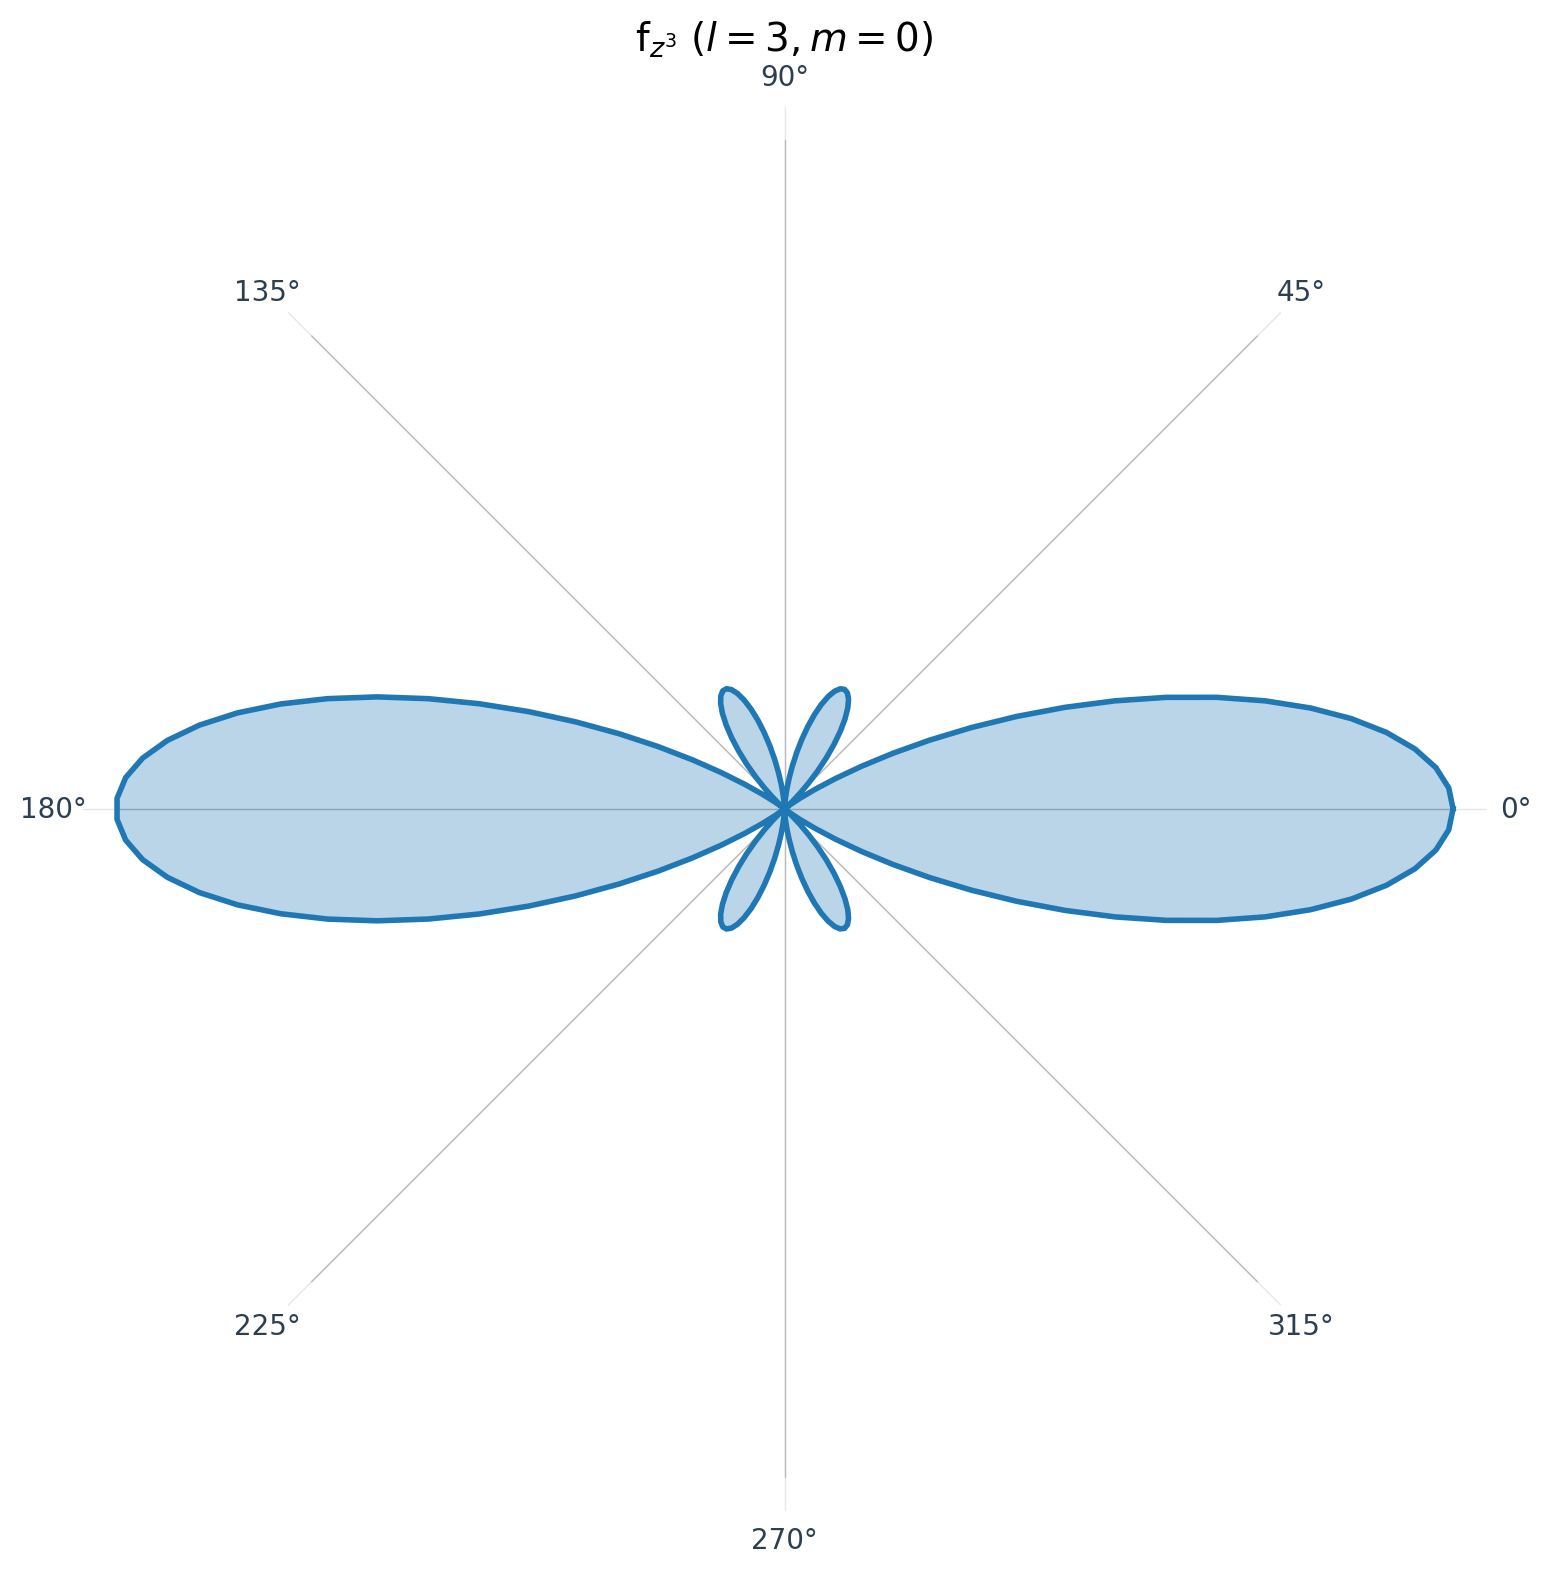
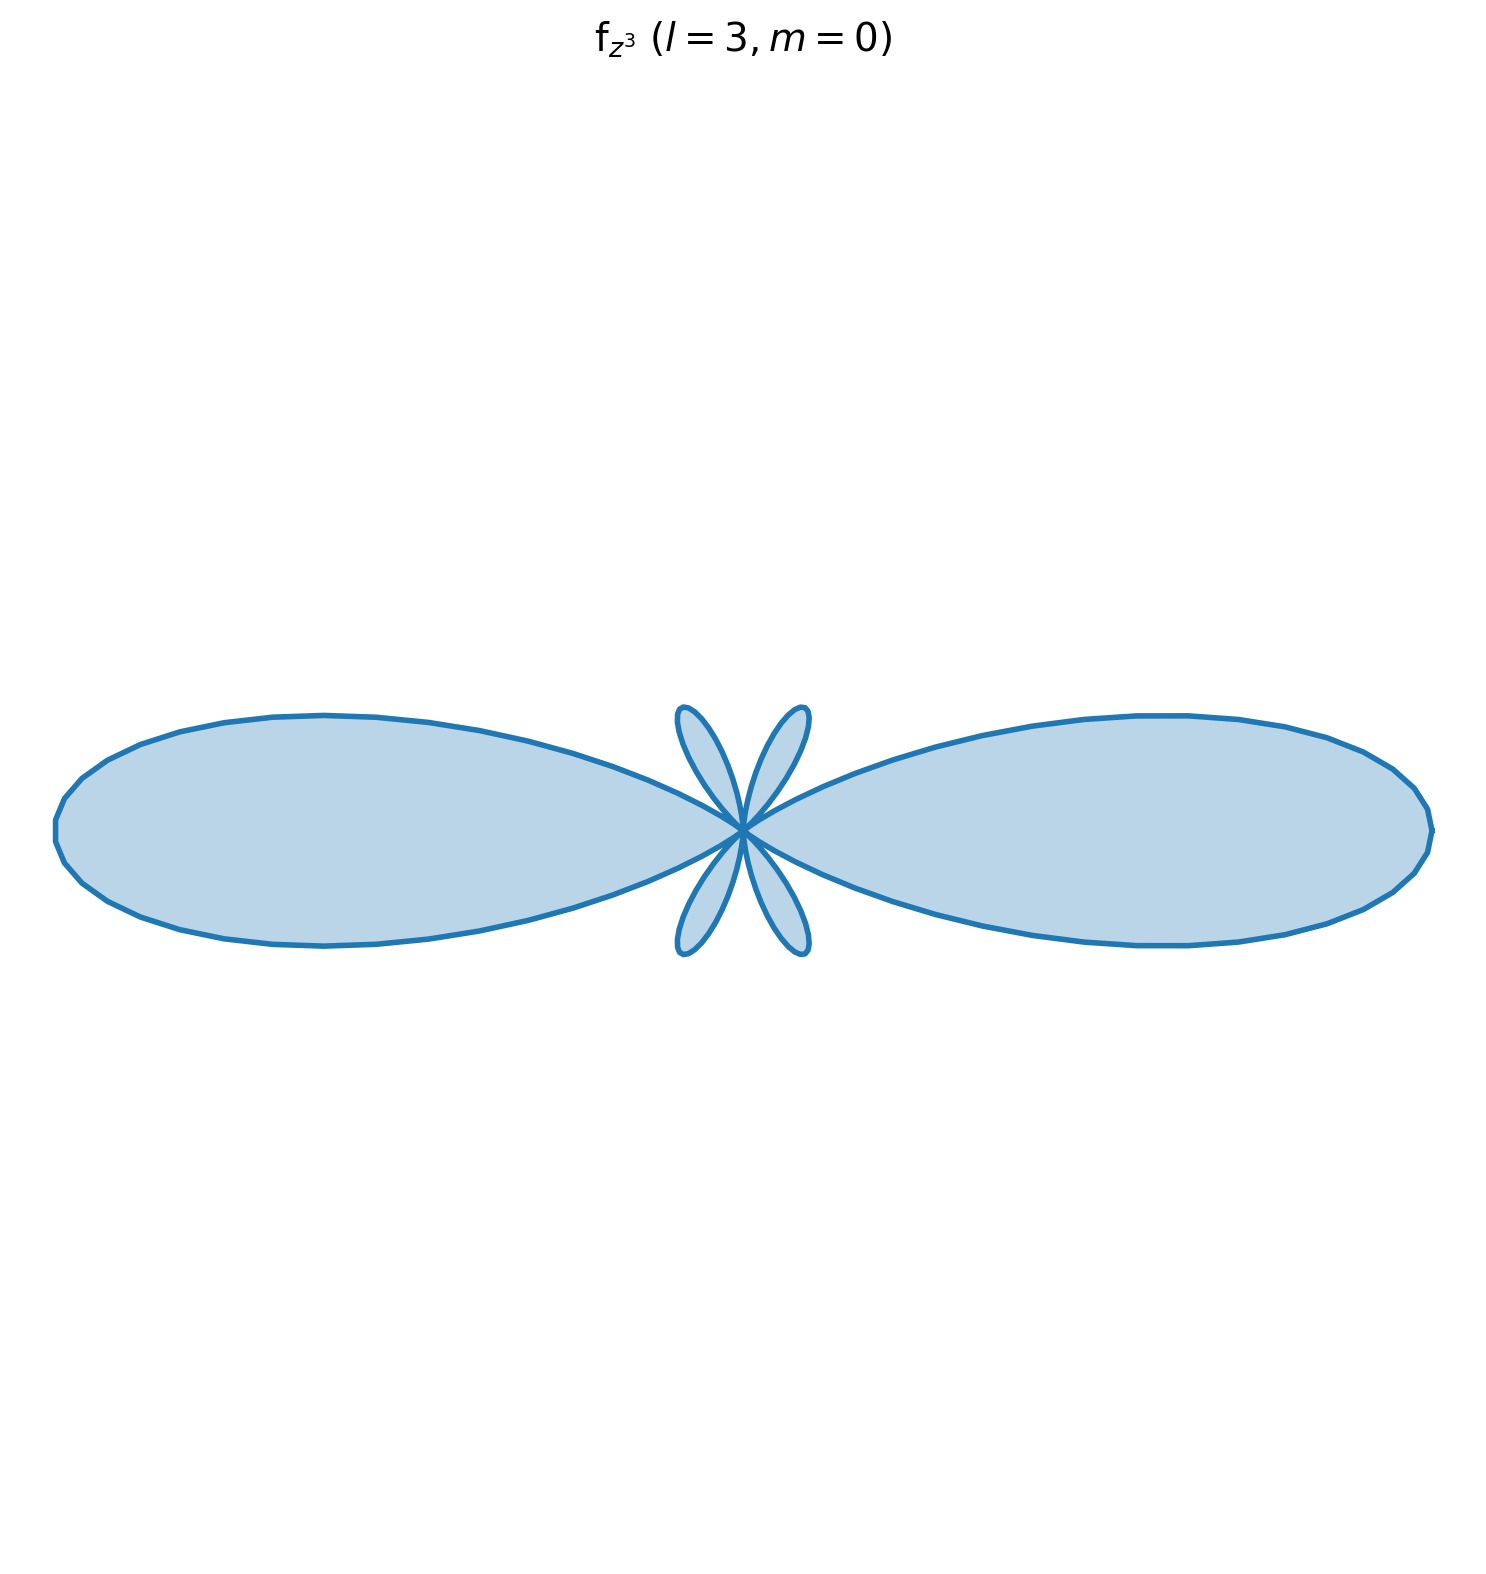
fix(angular-momentum): hide axes lines and fix orbital naming in SH plots
- Remove polar axis lines completely (use manual labels instead of set_thetagrids)
- Fix naming inconsistency: use complex spherical harmonics notation Y_l^m
- m=0 shown as Y_l^0, m≠0 shown as |Y_l^m|^2 to indicate modulus squared

diff --git a/utils/generate_spherical_harmonics.py b/utils/generate_spherical_harmonics.py
@@ -91,20 +91,14 @@ def plot_spherical_harmonic_2d(l, m, filename, title=None):
     
     fig, ax = plt.subplots(figsize=(8, 8), subplot_kw=dict(projection='polar'))
     
-    # Draw radial grid lines first with low zorder so they appear behind fill
-    max_r = Y_vals.max()
-    for angle in [0, np.pi/4, np.pi/2, 3*np.pi/4, np.pi, 5*np.pi/4, 3*np.pi/2, 7*np.pi/4]:
-        ax.plot([angle, angle], [0, max_r], color='gray', linewidth=0.5, alpha=0.5, zorder=1)
+    # Fill and outline (axes drawn by matplotlib will be hidden by fill)
+    ax.fill_between(theta, 0, Y_vals, alpha=0.3)
+    ax.plot(theta, Y_vals, linewidth=2, label=f'$|Y_{{{l}}}^{{{m}}}|^2$')
     
-    # Fill and outline with higher zorder
-    ax.fill_between(theta, 0, Y_vals, alpha=0.3, zorder=2)
-    ax.plot(theta, Y_vals, linewidth=2, label=f'$|Y_{{{l}}}^{{{m}}}|^2$', zorder=3)
-    
-    ax.set_rticks([])  # Remove radial ticks
-    ax.set_xticks([0, np.pi/4, np.pi/2, 3*np.pi/4, np.pi, 5*np.pi/4, 3*np.pi/2, 7*np.pi/4])
-    ax.set_xticklabels(['0°', '45°', '90°', '135°', '180°', '225°', '270°', '315°'])
-    
-    # Remove polar spine to fix visual artifacts
+    # Turn off all ticks and frame
+    ax.set_rticks([])
+    ax.set_thetagrids([])  # No theta grids
+    ax.patch.set_visible(False)
     ax.spines['polar'].set_visible(False)
     
     if title:
@@ -130,12 +124,12 @@ def plot_all_spherical_harmonics():
     axes = axes.flatten()
     
     orbitals = [
-        (0, 0, 's ($l=0, m=0$)'),
-        (1, 0, 'p$_z$ ($l=1, m=0$)'),
-        (1, 1, 'p$_{+1}$ ($l=1, m=1$)'),
-        (2, 0, 'd$_{z^2}$ ($l=2, m=0$)'),
-        (2, 1, 'd$_{xz}$ ($l=2, m=1$)'),
-        (2, 2, 'd$_{x^2-y^2}$ ($l=2, m=2$)'),
+        (0, 0, '$Y_0^0$ ($l=0, m=0$)'),
+        (1, 0, '$Y_1^0$ ($l=1, m=0$)'),
+        (1, 1, '$|Y_1^1|^2$ ($l=1, m=1$)'),
+        (2, 0, '$Y_2^0$ ($l=2, m=0$)'),
+        (2, 1, '$|Y_2^1|^2$ ($l=2, m=1$)'),
+        (2, 2, '$|Y_2^2|^2$ ($l=2, m=2$)'),
     ]
     
     from scipy.special import sph_harm_y
@@ -162,11 +156,17 @@ def plot_all_spherical_harmonics():
         ax.fill_between(theta, 0, Y_vals, alpha=0.3, color='blue', zorder=2)
         ax.plot(theta, Y_vals, linewidth=2, color='darkblue', zorder=3)
         
+        # Turn off all ticks and frame
         ax.set_rticks([])
-        ax.set_xticks([0, np.pi/2, np.pi, 3*np.pi/2])
-        ax.set_xticklabels(['z', 'x', '-z', '-x'])
-        # Remove polar spine to fix visual artifacts
+        ax.set_thetagrids([])  # No theta grids
+        ax.patch.set_visible(False)
         ax.spines['polar'].set_visible(False)
+        # Manually add labels without lines
+        max_r = Y_vals.max() * 1.05
+        label_positions = [(0, max_r, 'z'), (np.pi/2, max_r, 'x'), 
+                          (np.pi, max_r, '-z'), (3*np.pi/2, max_r, '-x')]
+        for angle, r, text in label_positions:
+            ax.text(angle, r, text, ha='center', va='center', fontsize=10)
         ax.set_title(label, fontsize=12, pad=15)
     
     plt.tight_layout()
